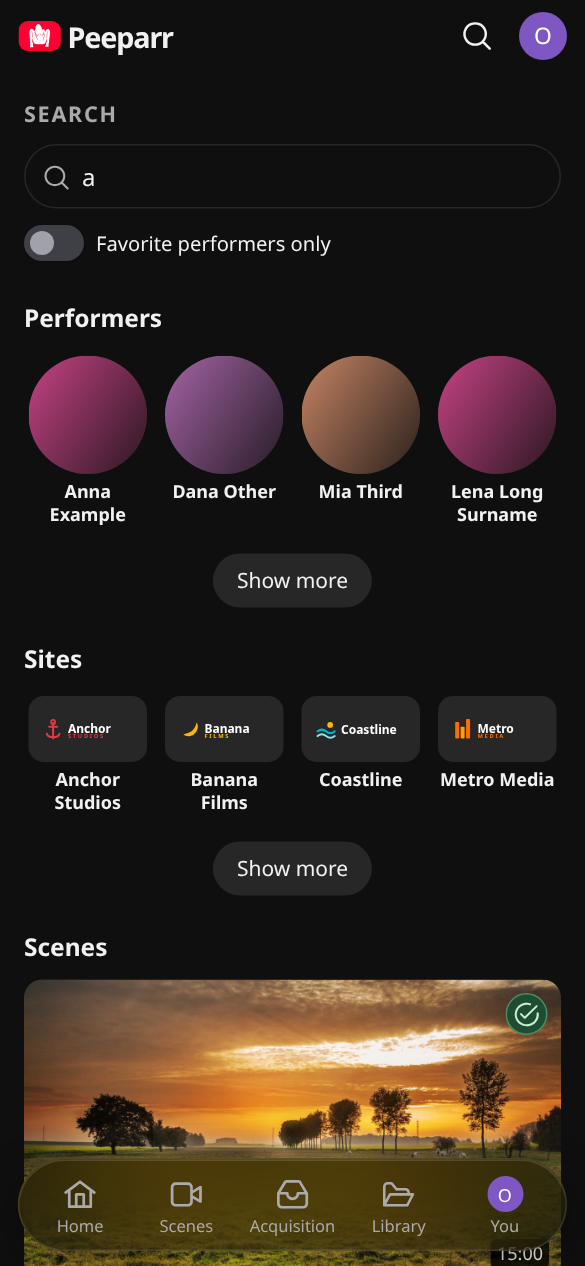
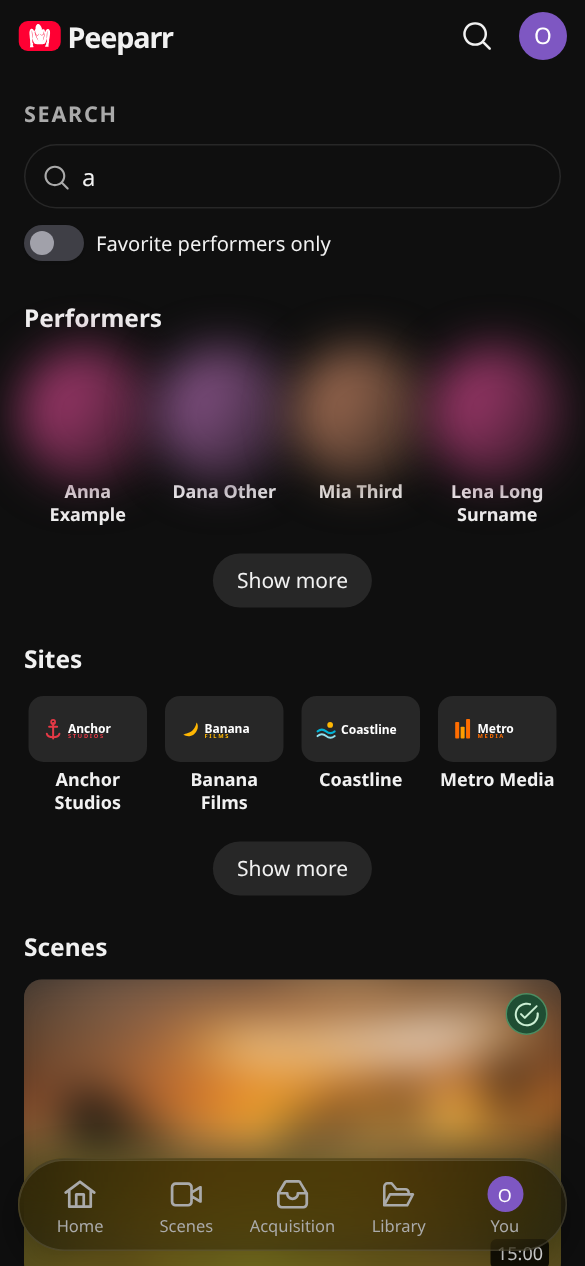
Screenshots and social preview: blur the demo scene photos

diff --git a/README.md b/README.md
@@ -23,7 +23,7 @@ Peeparr is a self-hosted central hub for your adult library. Browse and watch ev
   <img src="docs/screenshots/home.png" alt="Peeparr's Home page: a banner of the newest scenes in the library, then Pick up where you left off" width="100%" />
 </p>
 
-> The screenshots use demo data: made-up scenes, sites and names, with scenery photos from [Unsplash](https://unsplash.com) (via [Lorem Picsum](https://picsum.photos)).
+> The screenshots use demo data: made-up scenes, sites and names, with blurred scenery photos from [Unsplash](https://unsplash.com) (via [Lorem Picsum](https://picsum.photos)) standing in for scene pictures.
 
 ## Contents
 
